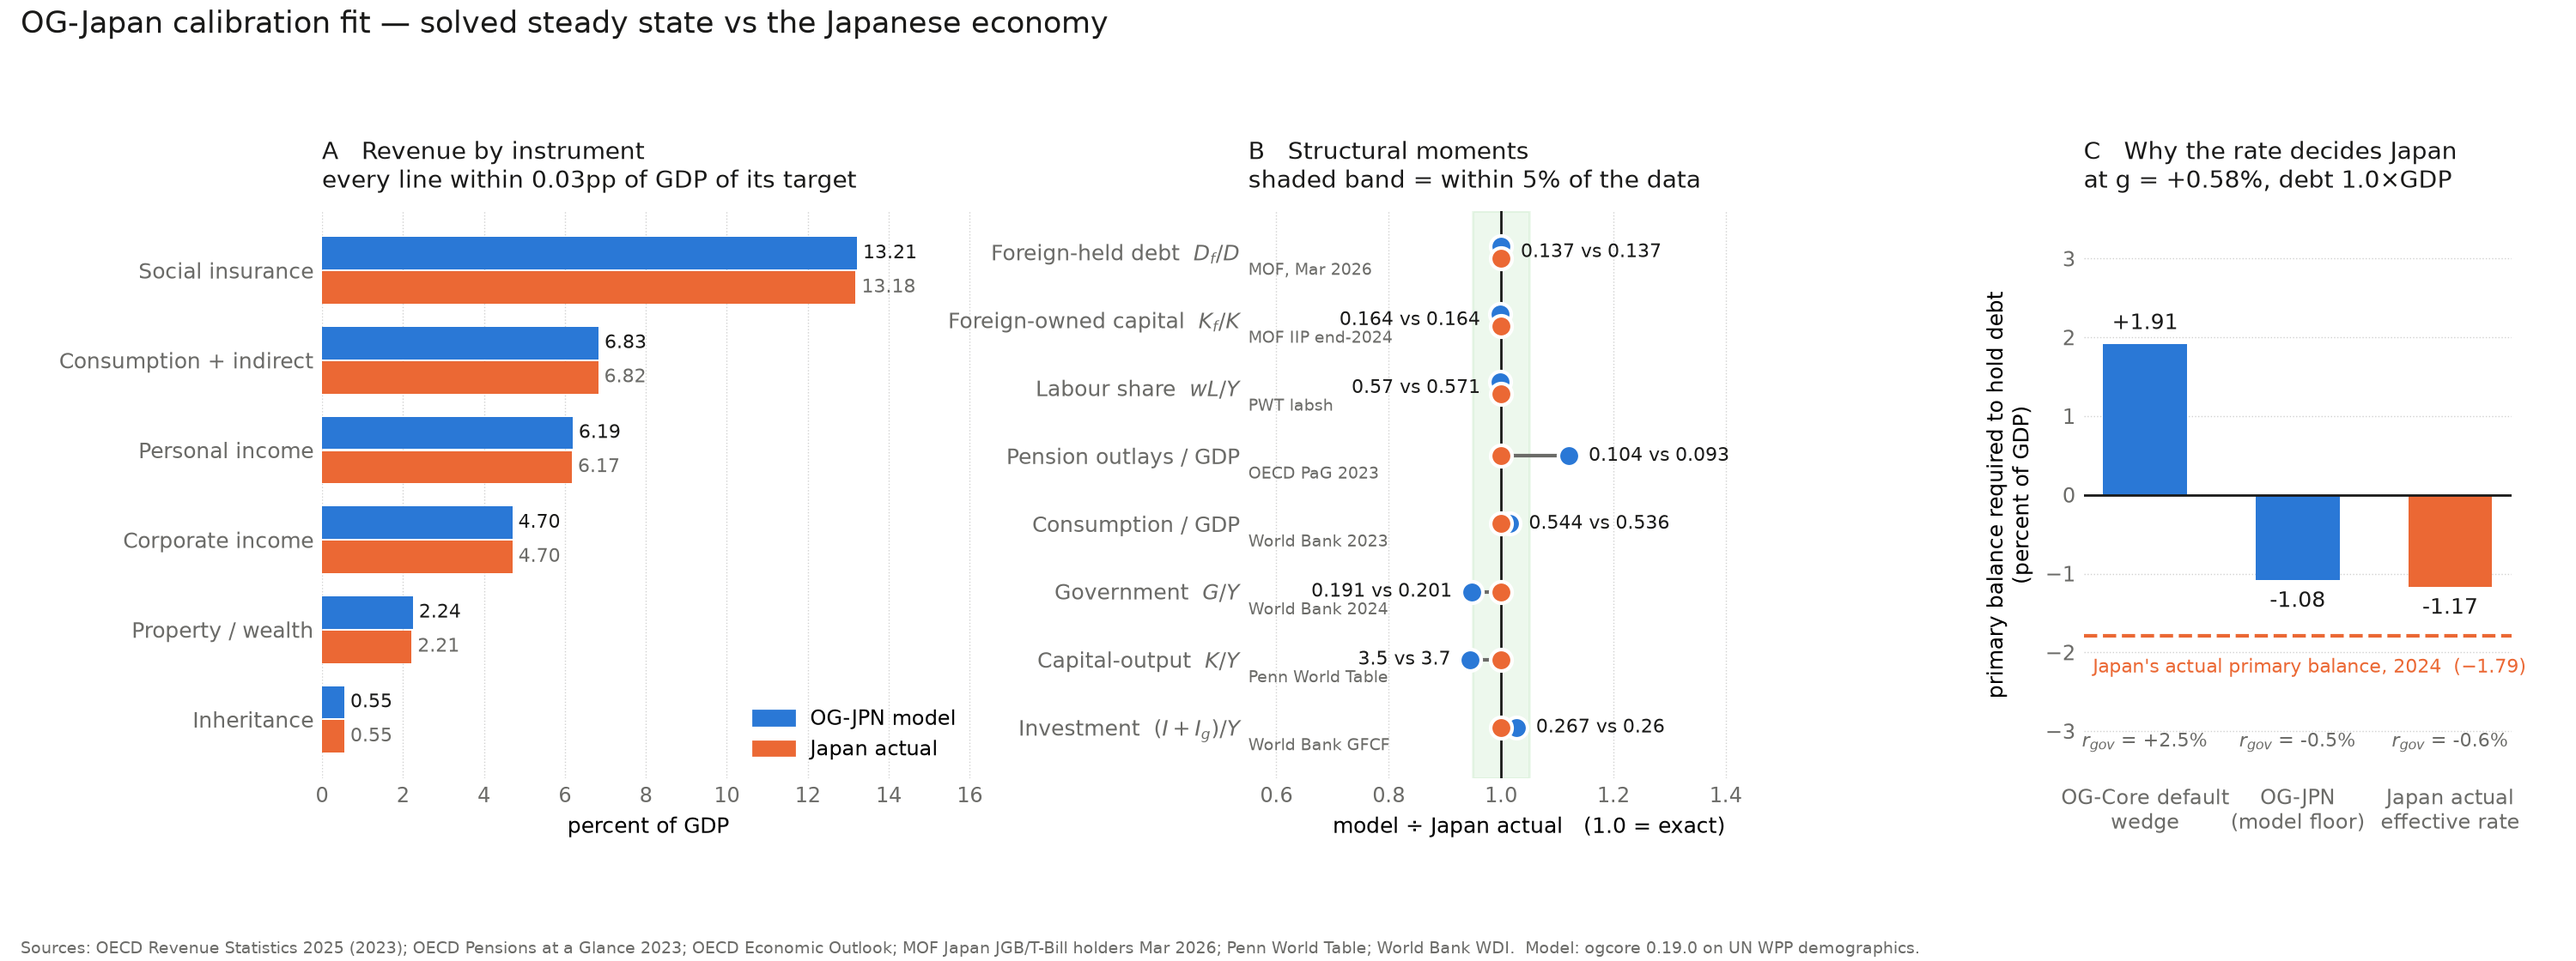
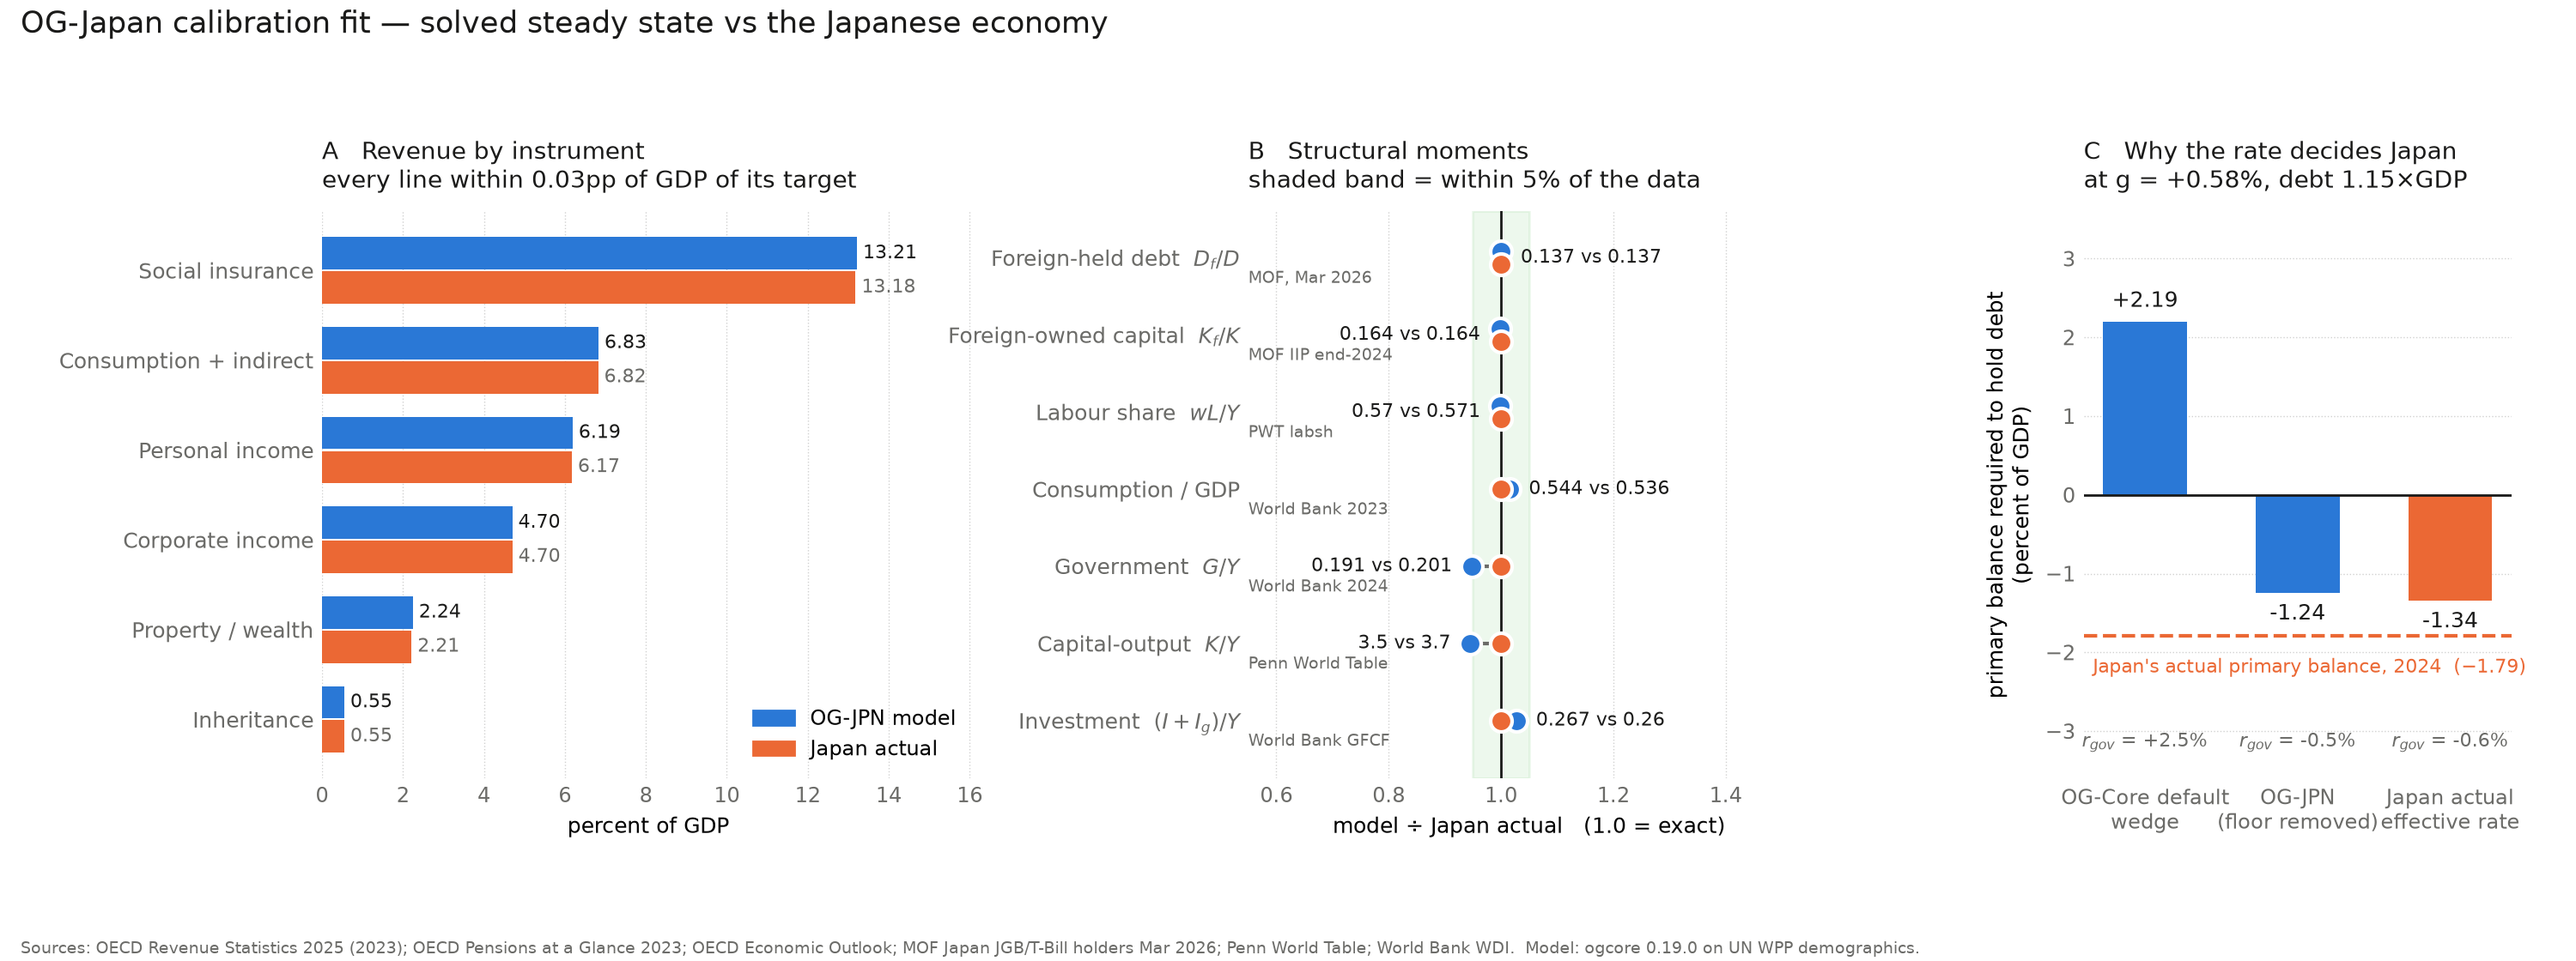
Refresh the fit figure for the new debt anchor and pension treatment

diff --git a/examples/plot_calibration_fit.py b/examples/plot_calibration_fit.py
@@ -51,7 +51,6 @@ STRUCTURAL_TARGETS = [
     ("Foreign-held debt  $D_f/D$", 0.137, "MOF, Mar 2026"),
     ("Foreign-owned capital  $K_f/K$", 0.164, "MOF IIP end-2024"),
     ("Labour share  $wL/Y$", 0.571, "PWT labsh"),
-    ("Pension outlays / GDP", 0.093, "OECD PaG 2023"),
     ("Consumption / GDP", 0.536, "World Bank 2023"),
     ("Government  $G/Y$", 0.201, "World Bank 2024"),
     ("Capital-output  $K/Y$", 3.70, "Penn World Table"),
@@ -107,7 +106,6 @@ def _panel_b(ax, ss, Y):
         _s(ss["D_f"]) / _s(ss["D"]),
         _s(ss["K_f"]) / _s(ss["K"]),
         _s(ss["w"]) * _s(ss["L"]) / Y,
-        _s(ss["agg_pension_outlays"]) / Y,
         _s(ss["C"]) / Y,
         _s(ss["G"]) / Y,
         _s(ss["K"]) / Y,
@@ -157,15 +155,15 @@ def _panel_c(ax, ss, p):
     """The r - g arithmetic: why the interest assumption decides Japan."""
     g = float(np.exp(np.asarray(p.g_y).flat[0])
               * (1 + np.asarray(p.g_n_ss).flat[0]) - 1)
-    D = 1.0  # debt_ratio_ss
+    D_Y = _s(ss["D"]) / _s(ss["Y"])   # the solved debt ratio
 
     cases = [
         ("OG-Core default\nwedge", 0.025, MODEL),
-        ("OG-JPN\n(model floor)", _s(ss["r_gov"]), MODEL),
+        ("OG-JPN\n(floor removed)", _s(ss["r_gov"]), MODEL),
         ("Japan actual\neffective rate", -0.006, ACTUAL),
     ]
     names = [c[0] for c in cases]
-    pbstar = [100 * (r - g) / (1 + g) * D for _, r, _ in cases]
+    pbstar = [100 * (r - g) / (1 + g) * D_Y for _, r, _ in cases]
     colors = [c[2] for c in cases]
 
     x = np.arange(len(cases))
@@ -192,7 +190,7 @@ def _panel_c(ax, ss, p):
     ax.set_ylim(-3.6, 3.6)
     ax.set_title(
         f"C   Why the rate decides Japan\n"
-        f"at g = {100*g:+.2f}%, debt 1.0×GDP",
+        f"at g = {100*g:+.2f}%, debt {D_Y:.2f}×GDP",
         fontsize=10, loc="left", color=INK, pad=10,
     )
 
